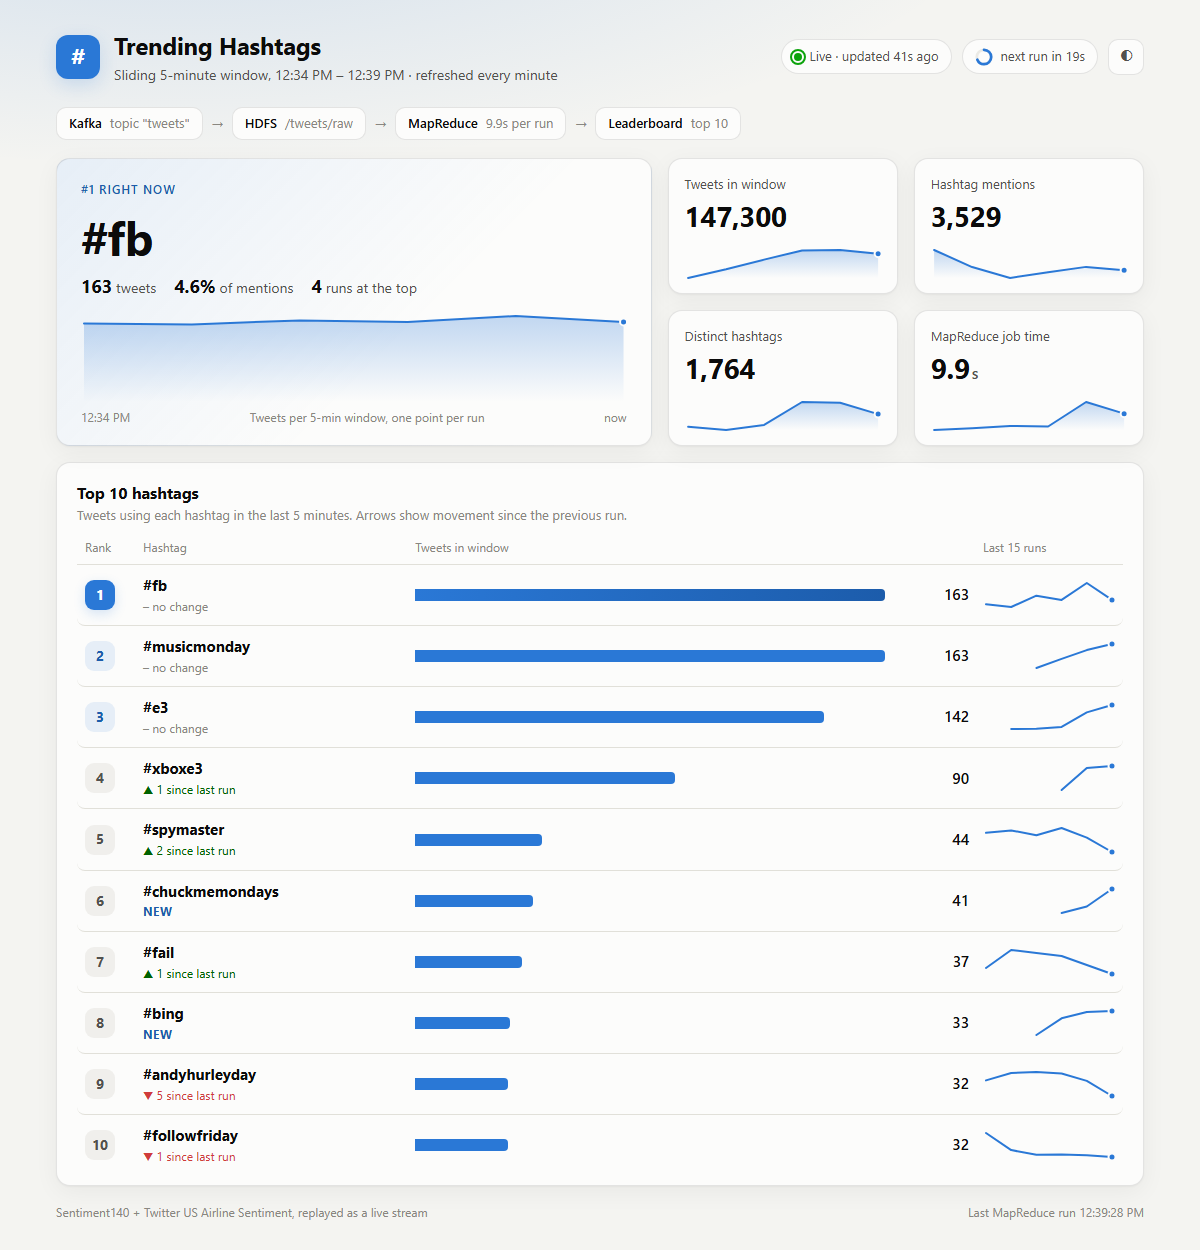
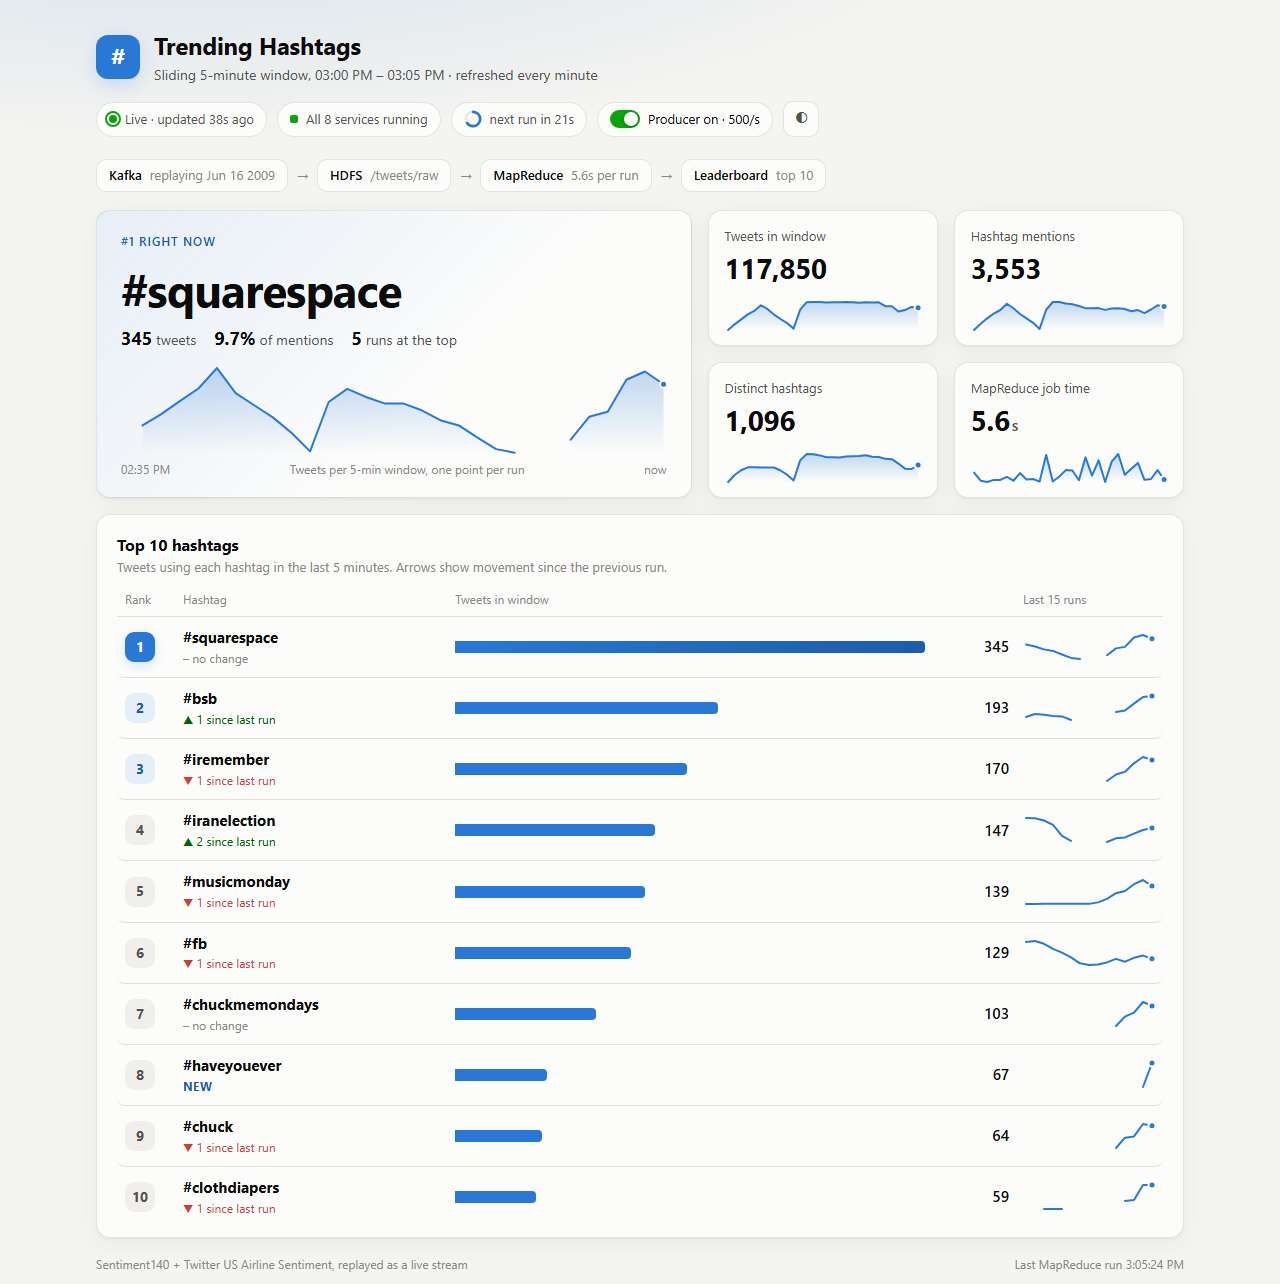
Quiet, self-healing startup and final presentation checks
- Pipeline windows open minimised without taking focus; a crashed stage's
  window closes instead of lingering (the supervisor restarts it)
- Trend job waits for HDFS to leave safe mode instead of crashing at start
- Dashboard's producer switch opens a titled, minimised producer window
- launch.ps1 -Skip N starts the replay at a chosen point (1220000 = 15 June 2009)
- Run sheet and Q&A updated for the one-click launcher, the producer
  switch and supervisor recovery; refreshed dashboard screenshot

diff --git a/dashboard/app.py b/dashboard/app.py
@@ -79,11 +79,16 @@ def set_producer(action):
             os.remove(config.PRODUCER_PAUSE)
         if not state["running"]:
             # no producer to resume: start one where the last one stopped, in its own window
-            cmd = [sys.executable, "-u", PRODUCER, "--loop",
-                   "--rate", str(state.get("rate") or config.PRODUCER_RATE),
-                   "--skip", str(state.get("position") or 0)]
-            flags = subprocess.CREATE_NEW_CONSOLE if os.name == "nt" else 0
-            subprocess.Popen(cmd, cwd=config.ROOT, creationflags=flags)
+            command = '"%s" -u "%s" --loop --rate %d --skip %d' % (
+                sys.executable, PRODUCER, state.get("rate") or config.PRODUCER_RATE, state.get("position") or 0)
+            if os.name == "nt":  # titled console window, minimised and without taking focus
+                info = subprocess.STARTUPINFO()
+                info.dwFlags |= subprocess.STARTF_USESHOWWINDOW
+                info.wShowWindow = 7  # SW_SHOWMINNOACTIVE
+                subprocess.Popen('cmd /c "title Tweet producer && %s"' % command, cwd=config.ROOT,
+                                 creationflags=subprocess.CREATE_NEW_CONSOLE, startupinfo=info)
+            else:
+                subprocess.Popen(command, shell=True, cwd=config.ROOT)
             with open(config.PRODUCER_STATE, "w") as f:
                 json.dump(dict(state, status="starting", updated_ms=int(time.time() * 1000)), f)
     else:

diff --git a/scripts/supervisor.py b/scripts/supervisor.py
@@ -51,12 +51,22 @@ def env():
     return e
 
 
+def background_window():
+    """Popen arguments for a new console window that starts minimised without taking focus."""
+    if os.name != "nt":
+        return {}
+    info = subprocess.STARTUPINFO()
+    info.dwFlags |= subprocess.STARTF_USESHOWWINDOW
+    info.wShowWindow = 7  # SW_SHOWMINNOACTIVE
+    return {"creationflags": subprocess.CREATE_NEW_CONSOLE, "startupinfo": info}
+
+
 def launch(title, command, cwd=config.ROOT):
-    """Start a command in its own console window, like the start scripts do.
+    """Start a command in its own minimised console window.
     Passed as one string: a list would make Python escape the inner quotes as \\",
-    which cmd does not understand."""
-    flags = subprocess.CREATE_NEW_CONSOLE if os.name == "nt" else 0
-    subprocess.Popen('cmd /k "title %s && %s"' % (title, command), cwd=cwd, env=env(), creationflags=flags)
+    which cmd does not understand. /c (not /k) closes the window if the program exits,
+    so a crash does not leave a dead window behind; the supervisor restarts it."""
+    subprocess.Popen('cmd /c "title %s && %s"' % (title, command), cwd=cwd, env=env(), **background_window())
 
 
 def producer_command():

diff --git a/scripts/run_trending_job.py b/scripts/run_trending_job.py
@@ -157,7 +157,14 @@ def main():
                          "starts in seconds) or 'yarn' (needs start-yarn.cmd)")
     args = ap.parse_args()
 
-    hdfs_client.mkdirs(RUNS_DIR)
+    # a freshly started HDFS is read-only (safe mode) for a short while: wait instead of crashing
+    while True:
+        try:
+            hdfs_client.mkdirs(RUNS_DIR)
+            break
+        except Exception as e:
+            print("%s  waiting for HDFS: %s" % (time.strftime("%H:%M:%S"), e), flush=True)
+            time.sleep(5)
     keep_awake()
     print("Computing top %d hashtags over a sliding %d-minute window every %ds (Ctrl+C to stop)" %
           (config.TOP_N, config.WINDOW_MINUTES, config.SLIDE_SECONDS), flush=True)

diff --git a/presentation/RUN_SHEET.md b/presentation/RUN_SHEET.md
@@ -1,4 +1,4 @@
-# Demo run sheet
+# Demo run sheet
 
 ## The night before
 
@@ -6,31 +6,32 @@
 - [ ] Do one full rehearsal using the steps below, then run `scripts\stop_all.ps1 -IncludeHdfs`.
 - [ ] Bookmark http://localhost:5000/?theme=light (light mode reads better on projectors)
       and http://localhost:9870/explorer.html#/tweets (the HDFS file browser).
-- [ ] Backup screenshots are in this folder (`dashboard-light.png`, `dashboard-dark.png`) in case the live demo fails.
+- [ ] Backup screenshots are in this folder (`dashboard-light.png`, `dashboard-dark.png`, and `code\` for code snippets) in case the live demo fails.
 
 ## 15 minutes before you present
 
 The laptop has 7.7 GB of RAM and the pipeline uses about 3 GB, so close Chrome tabs, Teams and other heavy apps first.
 
-Open PowerShell in the project folder (`C:\Users\admin\OneDrive\Desktop\bda`):
+Open PowerShell in the project folder (`C:\Users\admin\OneDrive\Desktop\bda`) and run:
 
 ```powershell
-powershell -ExecutionPolicy Bypass -File scripts\start_services.ps1
+powershell -ExecutionPolicy Bypass -File scripts\launch.ps1 -Skip 1220000
 ```
-This takes about 1 minute. It starts HDFS, ZooKeeper and Kafka in their own windows and should end with "Services ready".
 
-```powershell
-powershell -ExecutionPolicy Bypass -File scripts\start_pipeline.ps1 -Skip 1220000
-```
-This opens 4 more windows (HDFS sink, trend job, dashboard, producer) and then the dashboard in your browser.
+This does the same as the **Trending Hashtags** desktop shortcut, and also starts the replay in mid-June 2009.
 
-- **What `-Skip 1220000` does:** it starts the replay in mid-June 2009, where `#iranelection` (the Iranian election protests),
-  `#iphone` (the iPhone 3GS launch) and `#squarespace` trend. It's a better story than April, where `#followfriday` dominates.
+- **What happens:** it starts the supervisor, which brings up HDFS, ZooKeeper, Kafka and the four pipeline stages,
+  each in its own window. It then opens the dashboard. This takes about 1 to 2 minutes from a cold start.
+- **What `-Skip 1220000` does:** the replay starts on 15 June 2009, where `#iranelection` (the Iranian election protests),
+  `#iphone` (the iPhone 3GS launch) and `#squarespace` trend. That's a better story than April, where `#followfriday` dominates.
   The producer takes about 20 seconds to skip ahead before tweets start flowing.
+  Without `-Skip`, which is what the desktop shortcut does, the producer resumes where it last stopped.
 - **Wait about 5 minutes before presenting**, so the 5-minute window is full and the trend lines have a few points.
+- **Check the dashboard header:** it should say "Live", "All 8 services running" and "Producer on · 500/s".
 
-**Windows you should see:** 2 for HDFS (namenode, datanode), ZooKeeper, Kafka, HDFS sink, Trend job, Dashboard and Tweet producer.
-Don't close them. Minimise them, and arrange the producer, sink and trend job windows so you can show them.
+**Windows you should see:** 2 for HDFS (namenode, datanode), ZooKeeper, Kafka, HDFS sink, Trend job, Dashboard,
+Tweet producer, and a minimised Supervisor. Don't close them. Minimise them, and arrange the producer, sink and
+trend job windows so you can show them.
 
 ## Demo flow (about 5 minutes)
 
@@ -46,19 +47,26 @@ Don't close them. Minimise them, and arrange the producer, sink and trend job wi
    - the stat tiles (tweets in the window, mentions, distinct hashtags, job time);
    - the leaderboard: arrows for rank movement, NEW for new entries, and a sparkline of the last 15 runs per hashtag;
    - the countdown ring. Let it reach zero during your talk: the rows animate into their new order when the next run lands.
-6. **Code, if asked.** Open `mapreduce\mapper.py`, `combiner.py` and `reducer.py`. Each is about 20 lines.
+6. **Optional, the Producer switch.** Turn it off: the producer window prints "paused from the dashboard", and over the
+   next few runs the counts fall as old tweets slide out of the 5-minute window. Turn it back on to resume.
+   This shows the sliding window working. Don't leave it off before your audience sees a full leaderboard.
+7. **Optional, self-healing.** Close the HDFS sink window. Within about 10 seconds the supervisor reopens it,
+   and the header briefly shows "Restarting HDFS sink…".
+8. **Code, if asked.** Open `mapreduce\mapper.py`, `combiner.py` and `reducer.py`. Each is about 20 to 40 lines.
 
 ## If something goes wrong
 
 | Symptom | Fix |
 |---|---|
-| Dashboard says "Waiting for data" or "Stale" | Look at the Trend job window for an error. Check the producer window is still printing "sent ... tweets". |
-| Leaderboard says "No hashtags in the last 5 minutes" | The producer isn't running or is still skipping ahead. Wait 30 seconds, or restart it: `python producer\tweet_producer.py --skip 1220000` |
-| Kafka window closes straight away | Run `start_services.ps1` again. It retries Kafka automatically. |
+| Dashboard says "Waiting for data" or "Stale" | Wait for the next run (see the countdown). If it stays stale, look at the Trend job window for an error. |
+| Leaderboard says "No hashtags in the last 5 minutes" | Check the Producer switch is on. If it was just started, wait for the 20-second skip to finish. |
+| Header says "Restarting …" | The supervisor is restarting that component. Give it 10 to 40 seconds. |
+| A window closed by accident | Do nothing: the supervisor reopens it within about 10 seconds. |
+| Kafka window closes straight away | Normal after an unclean shutdown. The supervisor retries until it starts. |
 | Sink window says "HDFS write failed, retrying" | HDFS is still starting (safe mode). It recovers by itself, and nothing is lost. |
-| Browser can't reach localhost:5000 | The Dashboard window was closed. Run `python dashboard\app.py` in the project folder. |
-| Everything is broken | `scripts\stop_all.ps1 -IncludeHdfs`, then both start scripts again. That takes about 2 minutes. If there's no time, use the backup screenshots. |
-| Laptop went to sleep | Wake it. The stages recover by themselves within a minute or two. The trend job stops idle sleep while it runs, but closing the lid still sleeps. |
+| Browser can't reach localhost:5000 | The supervisor isn't running. Run `scripts\launch.ps1` or double-click the desktop shortcut. |
+| Everything is broken | `scripts\stop_all.ps1 -IncludeHdfs`, then `scripts\launch.ps1 -Skip 1220000`. That takes about 2 minutes. If there's no time, use the backup screenshots. |
+| Laptop went to sleep | Wake it. The supervisor restarts anything that stopped, and the dashboard catches up within a minute or two. |
 
 ## Afterwards
 
@@ -77,4 +85,5 @@ powershell -ExecutionPolicy Bypass -File scripts\stop_all.ps1 -IncludeHdfs
 | Kafka to HDFS delay | 10 seconds or less |
 | MapReduce job time | 5 to 12 seconds |
 | Leaderboard freshness | at most ~70 seconds behind the stream |
-| Cold start | ~1 minute for services, then the first leaderboard within a minute |
+| Recovery after a crash | about 10 seconds (supervisor checks every 10 seconds) |
+| Cold start | 1 to 2 minutes to the first leaderboard |

diff --git a/presentation/QA.md b/presentation/QA.md
@@ -42,6 +42,13 @@ lower latency and no re-reading of five minutes of data each minute. That is a n
 - **Delivery is at-least-once:** the sink commits Kafka offsets only after the HDFS write succeeds, so a crash means re-reading, not losing data.
 - **No half-written files:** files are written under a temporary `_tmp` name and then renamed, so a MapReduce job never reads a partial file.
 - **Failed writes are retried:** if HDFS is unavailable the sink keeps its buffer and tries again.
+- **Crashed processes are restarted:** a supervisor checks all 8 components every 10 seconds and restarts any that stopped,
+  in dependency order (HDFS and ZooKeeper before Kafka, Kafka before the sink and producer). If one keeps failing, it backs off to one attempt every 5 minutes.
+- **The replay resumes:** the producer records its position every second, so a restarted producer continues where it left off.
+
+**What does the Producer switch on the dashboard do?**
+It pauses or resumes the tweet stream without stopping the process, using a flag file the producer checks every tick.
+While it's off, the counts fall run by run as old tweets leave the 5-minute window, which shows the sliding window working.
 
 **Can tweets be counted twice?**
 Yes, in one edge case. If the sink crashes after writing to HDFS but before committing the offset, the tweets in that last batch are re-read.
